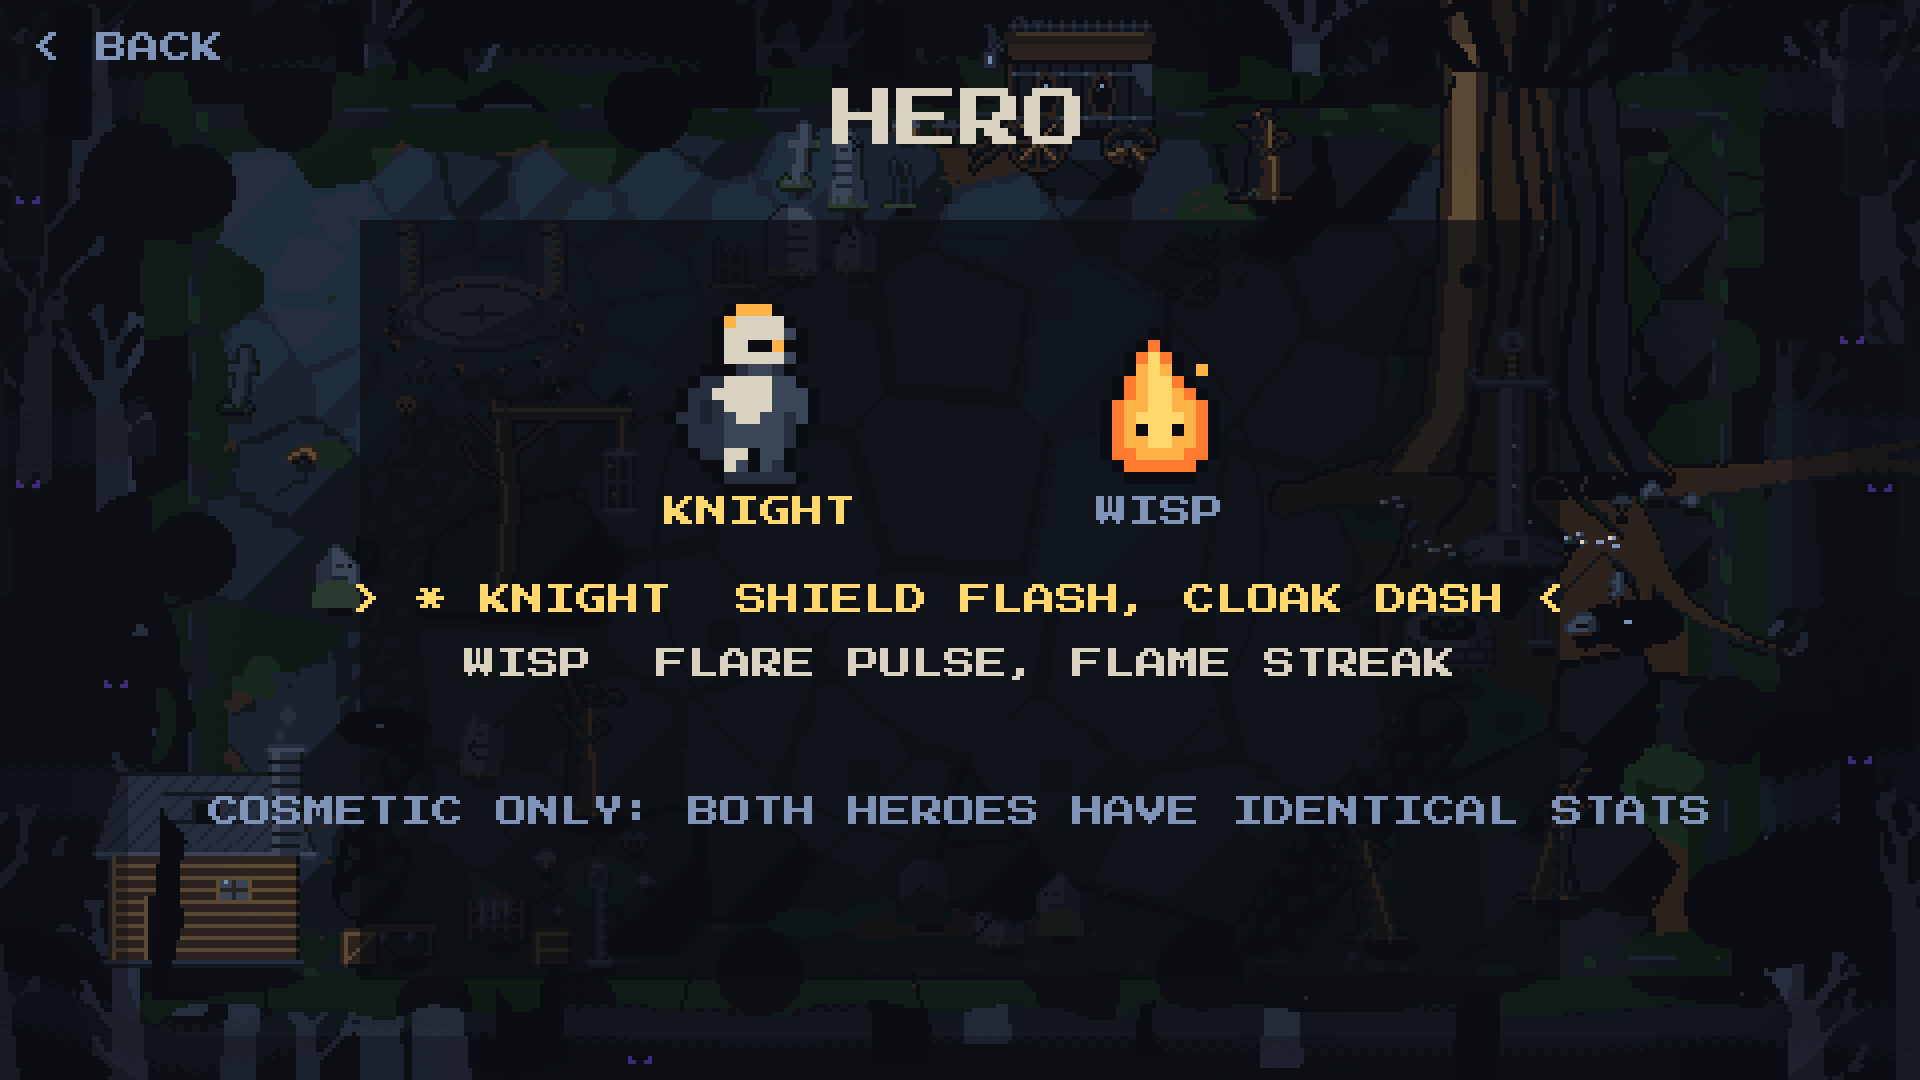
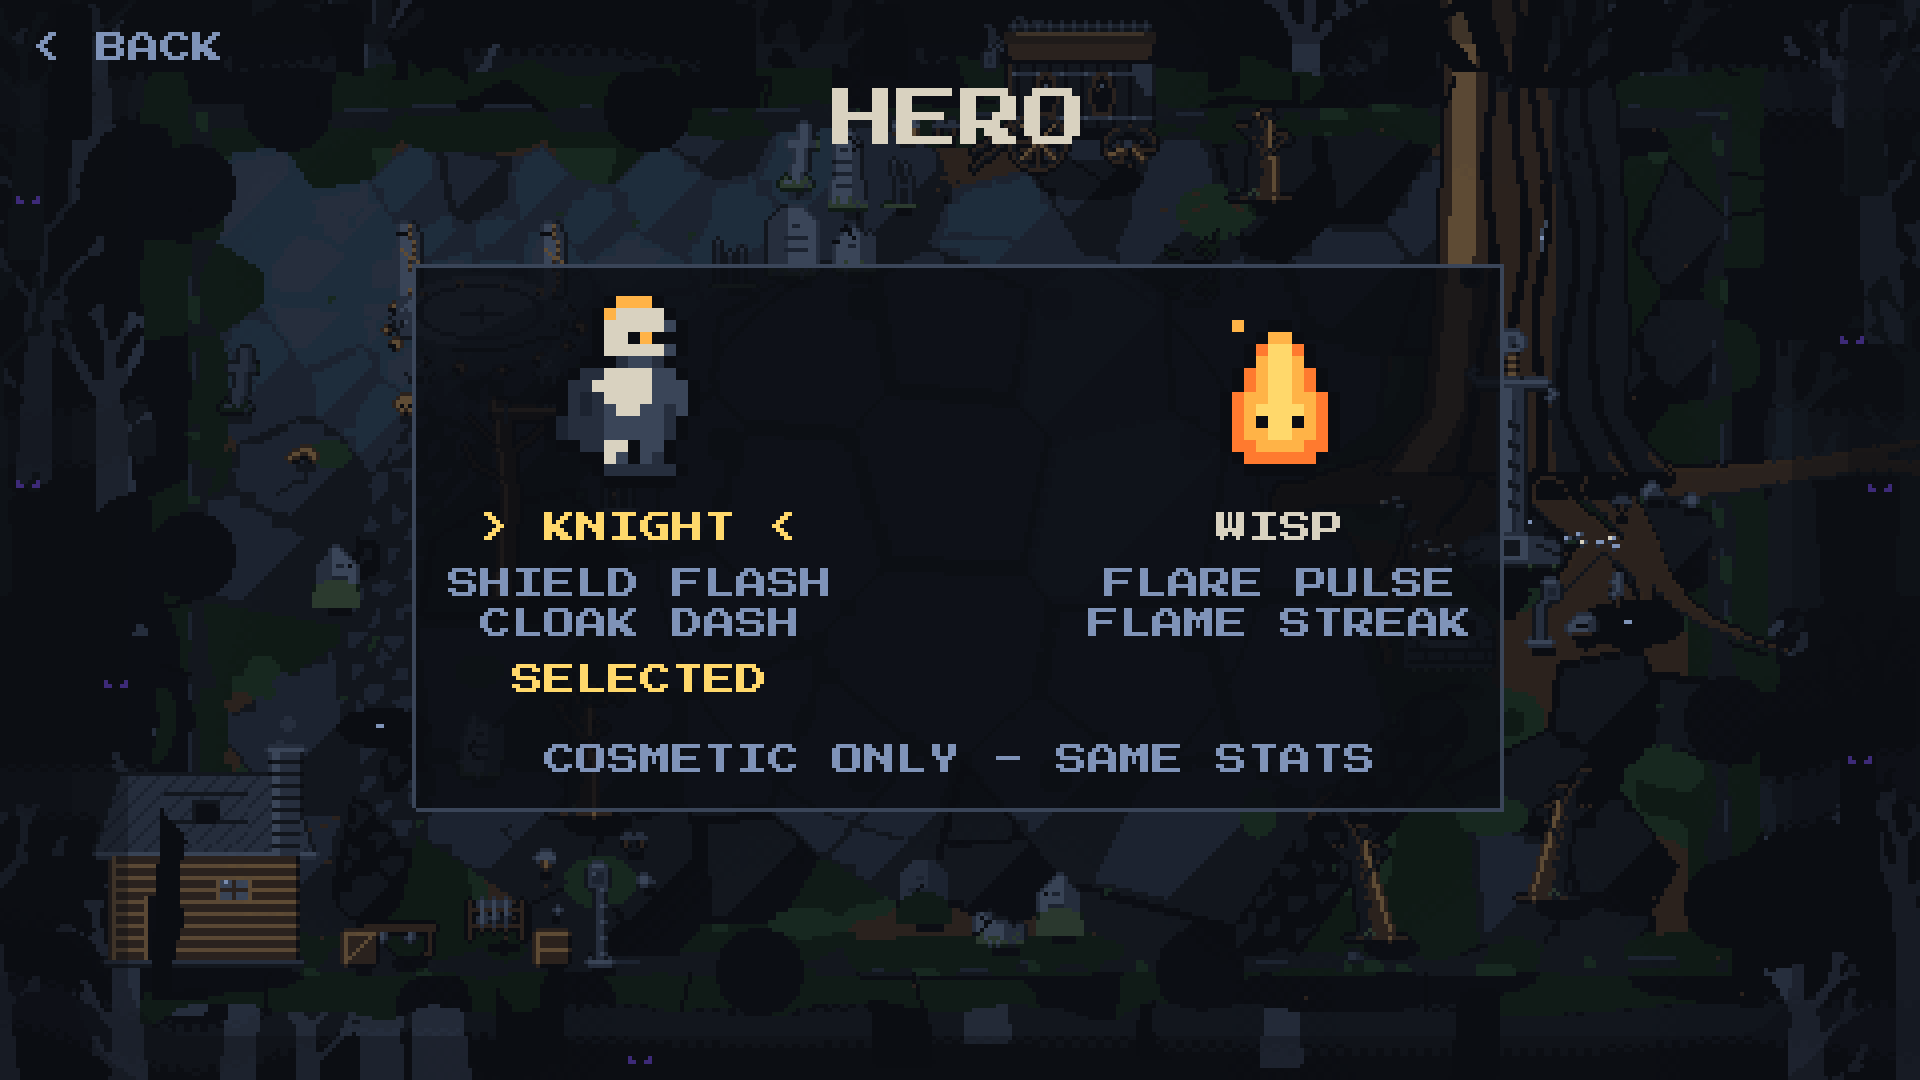
ui: menu layout fixes
- Every menu page: a dark panel sized to its content with even padding, the
  page title at y 30 above it, BACK top-left, content from y 58.
- Title: the controls hint is a dim line below the menu block; difficulties
  are named EASY / MEDIUM / HARD everywhere (Hard adds a dim 'DAILY SEED
  <date> - ONLINE BOARD' line); champion line split so it fits the panel.
- Hero: sprite, name (the focusable item), a short two-line description and
  a SELECTED tag per hero; 'COSMETIC ONLY - SAME STATS' inside the panel.
- Today's best: short centred messages for offline / empty / error.
- HUD: one baseline inside the arena width (score, multiplier, wave, ember
  'E<n>', pickup timers, HARD + date), pause button at the right end.
- npm run e2e:layout: every page (desktop and phone) - all texts inside the
  panel, no overlaps, focusable items on the canvas.

Claude-Session: https://claude.ai/code/session_01Ng2YPPjcRqgbh5YHv3EBEA

diff --git a/src/render/ui.ts b/src/render/ui.ts
@@ -19,6 +19,9 @@ export interface MenuItem {
   onRight?: () => void;
   /** Not focusable (a heading or spacer). */
   disabled?: boolean;
+  /** Optional fixed position (e.g. heroes side by side); default: the centred vertical list. */
+  x?: number;
+  y?: number;
 }
 
 export interface MenuPage {
@@ -30,6 +33,8 @@ export interface MenuPage {
   onBack?: () => void;
   /** Extra objects for this page (e.g. hero sprites); destroyed when the page changes. */
   decorate?: (scene: Phaser.Scene, rowY: (i: number) => number) => Phaser.GameObjects.GameObject[];
+  /** y of the first text line (default: right under the items). */
+  linesTop?: number;
   /** First row y (default 64) and row spacing (default 14). */
   top?: number;
   gap?: number;
@@ -49,12 +54,19 @@ export function onTap(o: Phaser.GameObjects.GameObject, fn: (p: Phaser.Input.Poi
   });
 }
 
+/** Content of every menu page starts here (the page title sits at y 30 above it). */
+export const MENU_TOP = 58;
+export const PANEL_PAD = 8;
+
 const PAD = { a: 0, b: 1, start: 9, up: 12, down: 13, left: 14, right: 15 };
 
 export class MenuView {
   private objs: Phaser.GameObjects.GameObject[] = [];
   private rows: UIText[] = [];
   private lineTexts: UIText[] = [];
+  /** The dark panel behind the page, sized to its content (+ even padding) on every refresh. */
+  private panel: Phaser.GameObjects.Rectangle | null = null;
+  private deco: Phaser.GameObjects.GameObject[] = [];
   private page: MenuPage | null = null;
   private focus = 0;
   private padPrev: Record<string, boolean> = {};
@@ -80,9 +92,12 @@ export class MenuView {
     if (!this.active) this.fresh = true;
     this.active = true;
     const s = this.scene;
-    const top = page.top ?? 64;
+    // every page: title at y 30, the panel content starting at the same y below it
+    const top = Math.max(MENU_TOP, page.top ?? MENU_TOP);
     const gap = page.gap ?? 14;
     if (this.dim > 0) this.objs.push(s.add.rectangle(0, 0, s.scale.width, s.scale.height, 0x0b0d12, this.dim).setOrigin(0).setDepth(this.depth).setInteractive());
+    this.panel = s.add.rectangle(0, 0, 10, 10, 0x0b0d12, 0.8).setOrigin(0).setStrokeStyle(1, 0x3a4558).setDepth(this.depth + 0.5);
+    this.objs.push(this.panel);
     this.objs.push(snap(addText(s, s.scale.width / 2, 30, page.title, { size: 16, color: C.bone }).setOrigin(0.5).setDepth(this.depth + 1)));
     if (page.onBack) {
       const back = addText(s, 8, 8, '< BACK', { color: C.dim }).setDepth(this.depth + 1);
@@ -91,7 +106,7 @@ export class MenuView {
       this.objs.push(back);
     }
     page.items.forEach((it, i) => {
-      const t = addText(s, s.scale.width / 2, top + i * gap, '', { color: C.bone }).setOrigin(0.5).setDepth(this.depth + 1);
+      const t = addText(s, it.x ?? s.scale.width / 2, it.y ?? top + i * gap, '', { color: C.bone }).setOrigin(0.5).setDepth(this.depth + 1);
       if (!it.disabled) {
         // a fixed, generous tap target (>= 12 px tall) around the row; the label width changes with its value
         t.setInteractive({ hitArea: new Phaser.Geom.Rectangle(0, -3, 1, 14), hitAreaCallback: Phaser.Geom.Rectangle.Contains, useHandCursor: true });
@@ -108,13 +123,16 @@ export class MenuView {
     });
     this.objs.push(...this.rows);
     const lines = page.lines?.() ?? [];
-    const firstLineY = page.items.length ? top + page.items.length * gap + 6 : top;
+    const placed = page.items.filter((it) => it.y === undefined).length;
+    const lowest = Math.max(top - gap, ...page.items.map((it, i) => it.y ?? top + i * gap));
+    const firstLineY = page.linesTop ?? (page.items.length ? (placed === page.items.length ? top + placed * gap + 6 : lowest + gap) : top);
     lines.forEach((l, i) => {
       const t = snap(addText(s, s.scale.width / 2, firstLineY + i * 11, l, { color: C.dim }).setOrigin(0.5, 0).setDepth(this.depth + 1));
       this.lineTexts.push(t);
     });
     this.objs.push(...this.lineTexts);
-    if (page.decorate) this.objs.push(...page.decorate(s, (i) => top + i * gap));
+    this.deco = page.decorate ? page.decorate(s, (i) => top + i * gap) : [];
+    this.objs.push(...this.deco);
     const first = page.items.findIndex((it) => !it.disabled);
     this.focus = focus >= 0 && focus < page.items.length && !page.items[focus]?.disabled ? focus : Math.max(0, first);
     this.refresh();
@@ -150,6 +168,46 @@ export class MenuView {
     });
     const lines = p.lines?.() ?? [];
     this.lineTexts.forEach((t, i) => snap(setTextValue(t, lines[i] ?? '')));
+    this.fitPanel();
+  }
+
+  /** Size the panel to everything on the page except the title and BACK (even padding on every side). */
+  private fitPanel(): void {
+    if (!this.panel) return;
+    const content = [...this.rows, ...this.lineTexts.filter((t) => t.text.trim() !== ''), ...this.deco] as unknown as { getBounds?: () => Phaser.Geom.Rectangle }[];
+    let x0 = Infinity;
+    let y0 = Infinity;
+    let x1 = -Infinity;
+    let y1 = -Infinity;
+    for (const o of content) {
+      const b = o.getBounds?.();
+      if (!b || b.width === 0) continue;
+      x0 = Math.min(x0, b.x);
+      y0 = Math.min(y0, b.y);
+      x1 = Math.max(x1, b.right);
+      y1 = Math.max(y1, b.bottom);
+    }
+    if (!Number.isFinite(x0)) {
+      this.panel.setVisible(false);
+      return;
+    }
+    const pad = PANEL_PAD;
+    const w = Math.max(160, x1 - x0 + 2 * pad);
+    const cx = this.scene.scale.width / 2;
+    this.panel.setVisible(true).setPosition(Math.round(cx - w / 2), Math.round(y0 - pad)).setSize(Math.round(w), Math.round(y1 - y0 + 2 * pad));
+    this.panel.setDisplaySize(Math.round(w), Math.round(y1 - y0 + 2 * pad));
+    if (import.meta.env.DEV || import.meta.env.VITE_SMOKE === '1') {
+      // layout snapshot for the automated layout check (dev / smoke builds only)
+      const box = (o: { getBounds: () => Phaser.Geom.Rectangle }) => {
+        const b = o.getBounds();
+        return [b.x, b.y, b.width, b.height];
+      };
+      (window as unknown as { __ngLayout?: object }).__ngLayout = {
+        title: this.page?.title,
+        panel: [this.panel.x, this.panel.y, this.panel.width, this.panel.height],
+        texts: [...this.rows, ...this.lineTexts, ...(this.deco.filter((o) => o instanceof Phaser.GameObjects.BitmapText) as UIText[])].filter((t) => t.text.trim() !== '').map((t) => ({ box: box(t), text: t.text, focusable: !!t.input })),
+      };
+    }
   }
 
   private setFocus(i: number): void {

diff --git a/src/render/TitleScene.ts b/src/render/TitleScene.ts
@@ -4,7 +4,8 @@
  */
 import Phaser from 'phaser';
 import { TITLE, VIEW_HEIGHT, VIEW_WIDTH } from '../config';
-import { fetchBoard, online, type Board } from '../net/api';
+import { fetchBoard, getServerDate, online, type Board } from '../net/api';
+import { utcDateKey } from '../daily';
 import { addDays } from '../shared/daily';
 import { DIFFICULTIES, persist, save } from '../storage';
 import { audio } from './audio';
@@ -56,8 +57,6 @@ export class TitleScene extends Phaser.Scene {
     this.add.image(0, 0, bgKey('vignette')).setOrigin(0).setDepth(801).setAlpha(al.vignette ?? 1);
     this.add.image(0, 0, bgKey('vignette_outer')).setOrigin(0).setDepth(801).setAlpha(al.vignette_outer ?? 1);
     this.add.image(0, 0, bgKey('forest_near')).setOrigin(0).setDepth(802);
-    // a calm dark plate behind the menu so it reads over the arena
-    this.add.rectangle(VIEW_WIDTH / 2, 150, 300, 190, 0x0b0d12, 0.72).setDepth(990);
     this.menu = new MenuView(this, 1000);
     audio.setMusic('music_menu');
     audio.setAmbience(false);
@@ -85,27 +84,29 @@ export class TitleScene extends Phaser.Scene {
     else this.menu.refresh();
   }
 
-  /** Always 3 lines (the menu re-renders a fixed number of lines). */
+  /** Always 3 lines (the menu re-renders a fixed number of lines); never wider than the panel. */
   private boardLines(): string[] {
-    if (this.boardState === 'offline') return ['', '', 'ONLINE BOARD: OFFLINE'];
-    if (this.boardState === 'loading') return ['', '', 'ONLINE BOARD: LOADING'];
-    if (this.boardState === 'error') return ['', '', 'BOARD UNAVAILABLE'];
+    if (this.boardState === 'offline') return ['ONLINE BOARD: OFFLINE', '', ''];
+    if (this.boardState === 'loading') return ['ONLINE BOARD: LOADING', '', ''];
+    if (this.boardState === 'error') return ['BOARD UNAVAILABLE', '', ''];
     const c = this.champion;
-    if (!c) return ['', '', 'NO CHAMPION YET TODAY'];
-    return ['', c.label, c.message ? `${c.name}: ${c.message}` : c.name];
+    if (!c) return ['NO CHAMPION YET TODAY', '', ''];
+    return [c.label, c.name, c.message ? `"${c.message}"` : ''];
   }
 
   private showBoard(): void {
     this.onBoardPage = true;
     const b = this.board;
     const lines: string[] = [];
-    if (this.boardState === 'loading') lines.push('LOADING');
-    else if (!b) lines.push(this.boardState === 'offline' ? 'ONLINE BOARD: OFFLINE' : 'BOARD UNAVAILABLE');
+    // nothing to show: a short centred message (the panel sizes itself to it)
+    if (this.boardState === 'loading') lines.push('LOADING...');
+    else if (this.boardState === 'offline') lines.push('BOARD OFFLINE.', 'YOUR HARD RUNS ARE SAVED LOCALLY.');
+    else if (!b) lines.push('BOARD UNAVAILABLE.');
+    else if (!b.top.length) lines.push('NO VERIFIED RUNS YET TODAY.', 'BE THE FIRST!');
     else {
-      lines.push(`HARD DAILY ${b.date} UTC`, '', '#  NAME              SCORE  HERO    TIME');
+      lines.push(`HARD ${b.date} UTC`, '', '#  NAME              SCORE  HERO    TIME');
       for (const e of b.top)
         lines.push(`${String(e.rank).padStart(2)} ${e.name.padEnd(16)} ${String(e.score).padStart(7)}  ${e.hero.toUpperCase().padEnd(6)} ${String(Math.floor(e.durationTicks / 60)).padStart(4)}S`);
-      if (!b.top.length) lines.push('NO RUNS YET TODAY');
     }
     this.menu.show({
       title: "TODAY'S BEST",
@@ -130,20 +131,21 @@ export class TitleScene extends Phaser.Scene {
       top: 76,
       items: [
         { label: () => 'PLAY', onActivate: () => this.cfg.startRun(this) },
-        // one line of controls for the active input device (switches when another device is used)
-        { label: () => controlsLine(getDevice()), disabled: true },
         {
           label: () => `DIFFICULTY ${DIFF_LABEL(sv.difficulty)}`,
           onLeft: () => ((sv.difficulty = DIFFICULTIES[(DIFFICULTIES.indexOf(sv.difficulty) + 2) % 3]!), persist()),
           onRight: () => ((sv.difficulty = DIFFICULTIES[(DIFFICULTIES.indexOf(sv.difficulty) + 1) % 3]!), persist()),
         },
+        // only for Hard: a dim second line with the daily seed date (not focusable)
+        { label: () => (sv.difficulty === 'hard' ? `DAILY SEED ${getServerDate() ?? utcDateKey(new Date())} - ONLINE BOARD` : ''), disabled: true },
         { label: () => `HERO ${sv.hero.toUpperCase()}`, onActivate: () => this.menu.show(heroPage(() => this.showMain(3), () => this.showMain(3))) },
         { label: () => 'SETTINGS', onActivate: () => this.menu.show(settingsPage(this.ctx(), () => this.showMain(4))) },
         { label: () => 'BEST SCORES', onActivate: () => this.showBest() },
         { label: () => "TODAY'S BEST", onActivate: () => this.showBoard() },
         { label: () => 'CREDITS', onActivate: () => this.menu.show(creditsPage(() => this.showMain(7))) },
       ],
-      lines: () => this.boardLines(),
+      // the controls hint for the active device sits below the menu block, above the online-board lines
+      lines: () => ['', controlsLine(getDevice()), '', ...this.boardLines()],
     };
     this.menu.show(page, focus);
   }

diff --git a/src/render/menus.ts b/src/render/menus.ts
@@ -21,7 +21,8 @@ export interface MenuCtx {
   onShowTouchHint?: () => void;
 }
 
-export const DIFF_LABEL = (d: Difficulty): string => (d === 'hard' ? `DAILY ${utcDateKey(new Date())}` : d.toUpperCase());
+/** Difficulties are always named EASY / MEDIUM / HARD (internal ids unchanged). */
+export const DIFF_LABEL = (d: Difficulty): string => d.toUpperCase();
 
 const onOff = (b: boolean): string => (b ? 'ON' : 'OFF');
 const step10 = (v: number, d: number): number => Math.max(0, Math.min(100, v + d * 10));
@@ -118,7 +119,7 @@ export function bestPage(back: () => void, show: (p: MenuPage) => void, d: Diffi
     title: 'BEST SCORES',
     top: 52,
     onBack: back,
-    items: [{ label: () => DIFF_LABEL(d).replace(/^DAILY .*/, 'HARD (DAILY)'), onLeft: () => go(-1), onRight: () => go(1) }],
+    items: [{ label: () => DIFF_LABEL(d), onLeft: () => go(-1), onRight: () => go(1) }],
     lines: () => {
       const list = save().best[d];
       const out = ['', BEST_HEADER];
@@ -154,30 +155,35 @@ export function creditsPage(back: () => void): MenuPage {
   };
 }
 
-const HERO_LINES = { knight: 'KNIGHT  SHIELD FLASH, CLOAK DASH', wisp: 'WISP  FLARE PULSE, FLAME STREAK' };
+const HERO_LINES = { knight: ['SHIELD FLASH', 'CLOAK DASH'], wisp: ['FLARE PULSE', 'FLAME STREAK'] };
+const HERO_X = { knight: 160, wisp: 320 };
 
+/** Each hero: sprite, name (the focusable item: "> <" + highlight when focused), one short line, a SELECTED tag. */
 export function heroPage(back: () => void, onPick: () => void): MenuPage {
   return {
     title: 'HERO',
-    top: 150,
-    gap: 16,
     onBack: back,
     items: (['knight', 'wisp'] as const).map((h) => ({
-      label: () => `${save().hero === h ? '* ' : ''}${HERO_LINES[h]}`,
+      label: () => h.toUpperCase(),
+      x: HERO_X[h],
+      y: 132,
       onActivate: () => {
         save().hero = h;
         persist();
         onPick();
       },
     })),
-    lines: () => ['', 'COSMETIC ONLY: BOTH HEROES HAVE IDENTICAL STATS'],
+    lines: () => ['COSMETIC ONLY - SAME STATS'],
+    linesTop: 186,
     decorate: (scene: Phaser.Scene) => {
       const out: Phaser.GameObjects.GameObject[] = [];
-      (['knight', 'wisp'] as const).forEach((h, i) => {
-        const x = 190 + i * 100;
-        const sp = scene.add.sprite(x, 100, ATLAS, frame(`${h}_idle`)).setScale(3).setDepth(1001);
+      (['knight', 'wisp'] as const).forEach((h) => {
+        const x = HERO_X[h];
+        const sp = scene.add.sprite(x, 98, ATLAS, frame(`${h}_idle`)).setScale(3).setDepth(1001);
         if (scene.anims.exists(`${h}_idle`)) sp.play(`${h}_idle`);
-        out.push(sp, snap(addText(scene, x, 128, h.toUpperCase(), { color: save().hero === h ? C.gold : C.dim }).setOrigin(0.5).setDepth(1001)));
+        out.push(sp);
+        HERO_LINES[h].forEach((l, k) => out.push(snap(addText(scene, x, 146 + k * 10, l, { color: C.dim }).setOrigin(0.5).setDepth(1001))));
+        if (save().hero === h) out.push(snap(addText(scene, x, 170, 'SELECTED', { color: C.gold }).setOrigin(0.5).setDepth(1001)));
       });
       return out;
     },

diff --git a/src/render/GameScene.ts b/src/render/GameScene.ts
@@ -29,7 +29,9 @@ import { C, MenuView, onTap, type MenuPage } from './ui';
 /** Frame time above this for PERF_WINDOW_MS lowers effects for the rest of the session (render only). */
 const PERF_SLOW_MS = 20;
 const PERF_WINDOW_MS = 3000;
-const PAUSE_BTN = { x: 452, y: 5, w: 20, h: 16 };
+/** Top HUD band inside the arena width (x 48..432): score, multiplier, wave, ember, pickup timers, daily label, pause. */
+const PAUSE_BTN = { x: 410, y: 5, w: 20, h: 16 };
+const HUD_X = { score: 52, mult: 124, wave: 172, daily: 304 };
 const FADE_MS = 120;
 // draw order (CLAUDE.md "Arena"): ground < ground telegraphs < y-sorted world < fog/vignette/overhang < HUD
 const D_GROUND_TELE = 3;
@@ -366,11 +368,12 @@ export class GameScene extends Phaser.Scene {
 
   private buildHud(): void {
     // top band above the arena (y 4..22) on a subtle dark translucent strip
-    this.add.rectangle(4, 4, VIEW_WIDTH - 8, 18, 0x0b0d12, 0.55).setOrigin(0).setDepth(D_HUD - 1);
-    this.hudScore = addText(this, 8, 9, '');
-    this.hudMult = addText(this, 78, 9, '', { color: '#ffb347' });
-    this.hudWave = addText(this, 126, 9, '', { color: '#7f93b8' });
-    this.hudDaily = addText(this, 292, 9, '', { color: '#7f93b8' });
+    this.add.rectangle(48, 4, 384, 18, 0x0b0d12, 0.55).setOrigin(0).setDepth(D_HUD - 1);
+    // one baseline (y 9), fixed gaps
+    this.hudScore = addText(this, HUD_X.score, 9, '');
+    this.hudMult = addText(this, HUD_X.mult, 9, '', { color: '#ffb347' });
+    this.hudWave = addText(this, HUD_X.wave, 9, '', { color: '#7f93b8' });
+    this.hudDaily = addText(this, HUD_X.daily, 9, '', { color: '#7f93b8' });
     this.banner = addText(this, VIEW_WIDTH / 2, 70, '').setOrigin(0.5).setAlpha(0);
     // ability cooldown icons in the left margin at the bottom (x 8..40, y 214..262); touch buttons replace them
     this.icons = {
@@ -644,7 +647,7 @@ export class GameScene extends Phaser.Scene {
     this.hudScore.setText(`${this.sim.score}`);
     this.hudMult.setText(`X${(st.multiplier / 100).toFixed(2)}`);
     this.hudWave.setText(st.wave >= 0 ? `WAVE ${st.wave + 1}` : '');
-    this.hudDaily.setText(this.runLabel.replace('HARD - ', ''));
+    this.hudDaily.setText(this.cfg.difficulty === 'hard' ? `HARD ${this.runDate.slice(5)}` : '');
     const touch = this.cfg.isTouch();
     for (const o of Object.values(this.icons)) o.setVisible(!touch);
     if (!touch) {

diff --git a/src/render/BossView.ts b/src/render/BossView.ts
@@ -45,10 +45,10 @@ export class BossView {
     this.pickup = scene.add.sprite(0, 0, ATLAS, frame('pickup_slow_time')).setVisible(false);
     this.timers = [0, 1].map((i) => ({
       // top HUD band (y 4..22): pickup timers as small icons with a shrinking ring
-      icon: scene.add.sprite(262 + i * 22, 13, ATLAS, frame(i ? 'pickup_double_score' : 'pickup_slow_time')).setDepth(depth.hud),
-      ring: scene.add.image(262 + i * 22, 13, ATLAS, frame('icon_ring')).setDepth(depth.hud),
+      icon: scene.add.sprite(268 + i * 22, 13, ATLAS, frame(i ? 'pickup_double_score' : 'pickup_slow_time')).setDepth(depth.hud),
+      ring: scene.add.image(268 + i * 22, 13, ATLAS, frame('icon_ring')).setDepth(depth.hud),
     }));
-    this.ember = addText(scene, 186, 9, '', { color: '#ff7a2f' }).setDepth(depth.hud);
+    this.ember = addText(scene, 236, 9, '', { color: '#ff7a2f' }).setDepth(depth.hud);
   }
 
   reset(): void {
@@ -204,6 +204,6 @@ export class BossView {
     });
     const charges = Math.min(st.emberCharges, p.parryActiveByCharge.length - 1);
     void parryActiveTicks;
-    this.ember.setText(charges > 0 ? `EMBER ${charges}` : '');
+    this.ember.setText(charges > 0 ? `E${charges}` : ''); // ember charges (short: the band is the arena width)
   }
 }
